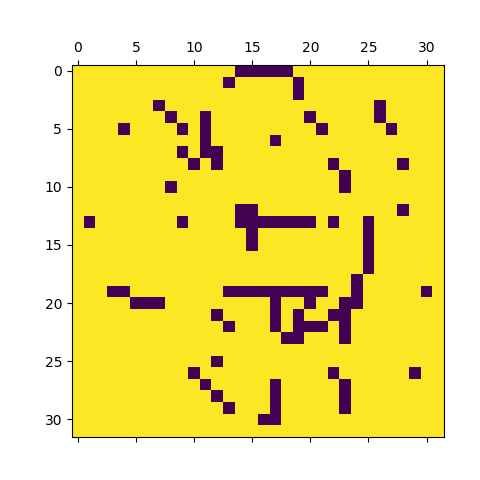
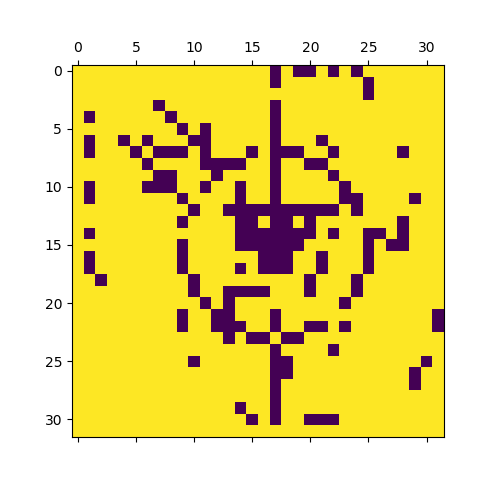
correct 2

diff --git a/src/hopfield.py b/src/hopfield.py
@@ -1,5 +1,7 @@
 import numpy as np
 import itertools
+import random as rd
+import copy
 
 class HopfieldNetwork:
     def __init__(self, pattern_number):
@@ -24,6 +26,52 @@ class HopfieldNetwork:
                     X[i] = 1
                 else:
                     X[i] = -1
+        return X
+
+    def sequentialUpdate(self, X):
+        if len(X.shape) == 2:
+            for i in range(len(X)):
+                arr = np.arange(1024)
+                np.random.shuffle(arr)
+                for k in arr:
+                    s = 0
+                    for j in range(len(X)):
+                        s += self.W[k][j] * X[i][j]
+                    X[i][k] = np.sign(s)
+        else:
+            arr = np.arange(1024)
+            np.random.shuffle(arr)
+            for k in arr:
+                s = 0
+                for j in range(len(X)):
+                    s += self.W[k][j] * X[j]
+                X[k] = np.sign(s)
+        return X
+
+    def sequentialUpdate100(self, X):
+        arr = np.arange(1024)
+        np.random.shuffle(arr)
+        i = 0
+        Xs = []
+        for k in arr:
+            i+=1
+            s = 0
+            for j in range(len(X)):
+                s += self.W[k][j] * X[j]
+            X[k] = np.sign(s)
+            if i%100 == 0:
+                Xs.append(copy.deepcopy(X))
+        Xs.append(X)
+        return Xs
+
+    def sequentialConvergence(self, X):
+        fixed = False
+        i = 0
+        while not(fixed) and i < 100:
+            i += 1
+            X_T = self.sequentialUpdate(X)
+            fixed = np.array_equal(X_T, X)
+            X = X_T
         return X
 
     def computeW(self, X):

diff --git a/src/scenarios.py b/src/scenarios.py
@@ -44,7 +44,7 @@ def scenario3_2():
     X = X.reshape((11,1024))
 
     for i in range(11):
-        printFigure(X[i], str(i+1))
+        saveFigure(X[i], str(i+1))
 
     HF = hopfield.HopfieldNetwork(pattern_number=1024)
     HF.store(X[:3])
@@ -54,22 +54,24 @@ def scenario3_2():
     print("Check X3 fixed points")
     print(np.sum(X3 - X[:3], axis=1))
 
-    a = HF.littleModel(X[9:10])
-    b = HF.littleModel(X[10:11])
+    a = HF.sequentialConvergence(X[9])
+    b = HF.sequentialConvergence(X[10])
 
-    #printFigure(a, "oo10")
-    #printFigure(b, "oo11")
+    saveFigure(a, "oo10")
+    saveFigure(b, "oo11")
 
     x = np.random.choice([-1, 1], 1024)
-    printFigure(x, "randomInit")
-    x1 = HF.searchFixedPoint(x)
-    printFigure(x1, "random")
-    print("JE COMPRENDS PAS LA DERNIRE QUESTION ICI")
+    saveFigure(x, "randomInit")
+    xs = HF.sequentialUpdate100(x)
+    for i in range(len(xs)):
+        saveFigure(xs[i], "random"+str(i))
 
-def printFigure(X, title):
+
+def saveFigure(X, title):
     A = X.reshape((32, 32))
     plt.matshow(A)
     plt.savefig(title + ".png")
+    plt.close()
 
 def scenario3_3():
     with open("../pict.dat", "r") as f:
@@ -87,6 +89,8 @@ def scenario3_3():
     print(HF.E(np.random.choice([-1, 1], 1024)))
     print(HF.E(np.random.choice([-1, 1], 1024)))
     print(HF.E(np.random.choice([-1, 1], 1024)))
+
+    print(HF.searchFixedPoint(np.random.choice([-1, 1], 1024)))
 
 
 def scenario3_4():

diff --git a/src/main.py b/src/main.py
@@ -3,7 +3,7 @@ import scenarios
 def run():
     #scenarios.scenario3_1()
     #scenarios.scenario3_2()
-    scenarios.scenario3_3()
+    sscenarios.scenario3_3()
     # scenarios.scenario3_4()
     # scenarios.scenario3_5()
     # scenarios.scenario3_6()
